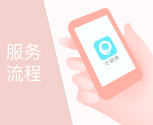
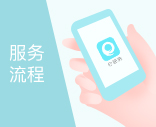
价目和服务换图

diff --git a/index.html b/index.html
@@ -3,7 +3,7 @@
 <head>
 	<title>EdaixiSpring</title>
 	<meta charset="utf-8">
-	<link rel="stylesheet" type="text/css" href="./css/style.css">
+	<link rel="stylesheet" type="text/css" href="./css/style.css?v=20170109">
 </head>
 <body>
 	<div class="container">
@@ -29,13 +29,13 @@
 					<img src="./images/banner.jpg">
 				</div>
 				<div class="right-main">
-					<div class="right-category list1">
+					<div class="right-category ">
 						<a href="./cleancategory.html">
 							<img src="./images/cleancategorybtn.jpg">
 						</a>
 					</div>
 
-					<div class="right-category list2">
+					<div class="right-category ">
 						<a href="./washingprice.html">
 							<img src="./images/washingprice.png">
 						</a>
@@ -47,19 +47,19 @@
 						</a>
 					</div>
 
-					<div class="right-category list1 top21 bottom12">
+					<div class="right-category">
 						<a href="./hongbao.html">
 							<img src="./images/gethongbaobtn.jpg">
 						</a>
 					</div>
 
-					<div class="right-category list2 top21 bottom12">
+					<div class="right-category">
 						<a href="./bookserver.html">
 							<img src="./images/yuyueserverbtn.jpg">
 						</a>
 					</div>
 
-					<div class="right-category top21 bottom12">
+					<div class="right-category">
 						<a href="./question.html">
 							<img src="./images/questionbtn.jpg">
 						</a>

diff --git a/css/style.css b/css/style.css
@@ -5,9 +5,12 @@
   -webkit-tap-highlight-color: rgba(0, 0, 0, 0);
 }
 
+* {
+	padding: 0;
+	margin: 0;
+}
+
 body,html {
-  padding: 0;
-  margin: 0;
   margin: 0 auto;
   background: #fff;
   font-family: 'microsoft yaHei', '微软雅黑', arial;
@@ -108,24 +111,13 @@ body,html {
 .right-category {
 	width: 156px;
 	height: 127px;
-	display: inline-block;
+	display: inline-flex;
+	margin-left: 20px;
+	margin-bottom: 12px;
+	float: left;
 }
 .right-category img {
 	width: 100%;
-}
-.list1 {
-	margin-left: 22px;
-}
-.list2 {
-	margin-left: 13px;
-	margin-right: 13px;
-}
-
-.top21 {
-	margin-top: 21px;
-}
-.bottom12 {
-	margin-bottom: 12px;
 }
 
 /*single tpl*/
@@ -201,7 +193,7 @@ body,html {
 	background-color: #dec5cf;
 }
 .orderserver-color {
-	background-color: #afdadd;
+	background-color: #9bdae2;/*#afdadd*/
 }
 .question-color {
 	background-color: #ffdb9a;

diff --git a/css/washingpricestyle.css b/css/washingpricestyle.css
@@ -7,47 +7,6 @@ html {
 	font-size: 20px
 }
 
-@media screen and (max-width: 768px) {
-	html {
-		font-size: 18px
-	}
-}
-
-@media screen and (max-width: 640px) {
-	html {
-		font-size: 16px
-	}
-}
-
-@media screen and (max-width: 580px) {
-	html {
-		font-size: 16px
-	}
-}
-
-@media screen and (max-width: 540px) {
-	html {
-		font-size: 15px
-	}
-}
-
-@media screen and (max-width: 414px) {
-	html {
-		font-size: 15px
-	}
-}
-
-@media screen and (max-width: 375px) {
-	html {
-		font-size: 14px
-	}
-}
-
-@media screen and (max-width: 320px) {
-	html {
-		font-size: 13px
-	}
-}
 
 body {
 	background: #f0f0f0
@@ -157,7 +116,7 @@ li {
 	position: fixed;
 	color: #555;
 	padding: 0;
-	background: #fff;
+	background: #fff; /*#f3d1cc*/
 	top: 20px;
 	left: 0;
 	right: 0;

diff --git a/washingprice.html b/washingprice.html
@@ -10,7 +10,7 @@
   <meta content="" name="pgv" /> 
   <script src="https://cdnwww.edaixi.com/assets/jquery-1.10.1.min-524d94c94daece44b744b703a4fcb84e.js"></script> 
   <!-- <link href="https://cdnwww.edaixi.com/assets/price_word-91b9056c210144dd0dd282f83cadb4c2.css" media="screen" rel="stylesheet" /> --> 
-  <link rel="stylesheet" type="text/css" href="./css/washingpricestyle.css" /> 
+  <link rel="stylesheet" type="text/css" href="./css/washingpricestyle.css?v=20170109" /> 
   <title>价目中心</title> 
  </head> 
  <body> 
